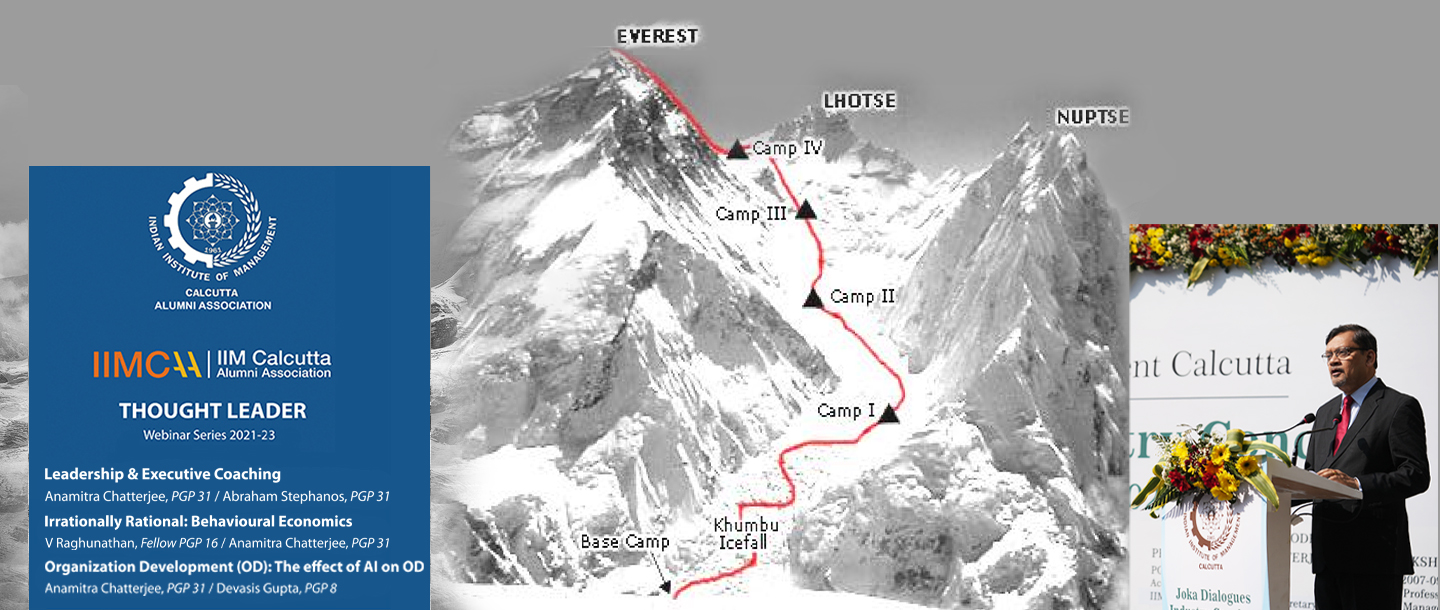
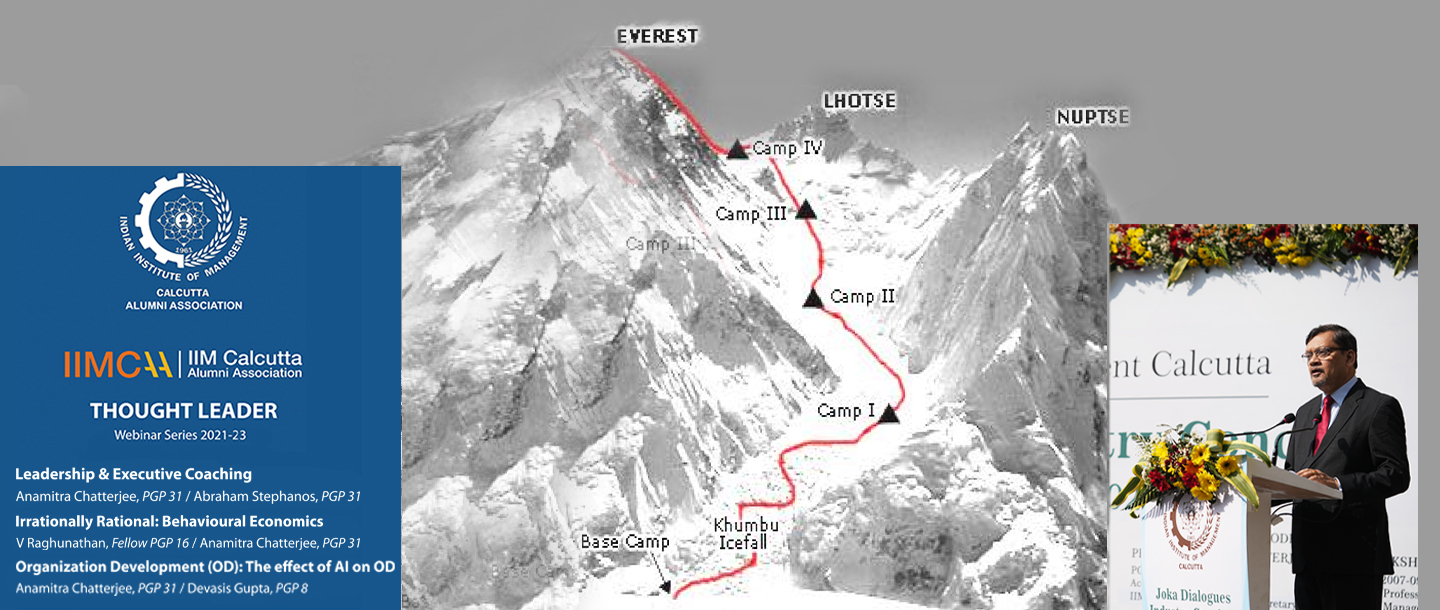
update

Changed region(s): [[0.0, 0.0934, 0.5, 1.0], [0.75, 0.3426, 1.0, 1.0], [0.0625, 0.2803, 0.1875, 0.5295]]

diff --git a/assets/css/main.css b/assets/css/main.css
@@ -976,8 +976,8 @@ ul.pagination-wrap li.current span {
 .leadership-banner-wrap {
 	overflow: hidden;
 	background: url("../img/leadership-banner.jpg") no-repeat center;
-	min-height:609px;
-	background-size: cover;
+height:609px;
+	background-color:#9c9c9c ;
 	
 	
 }
